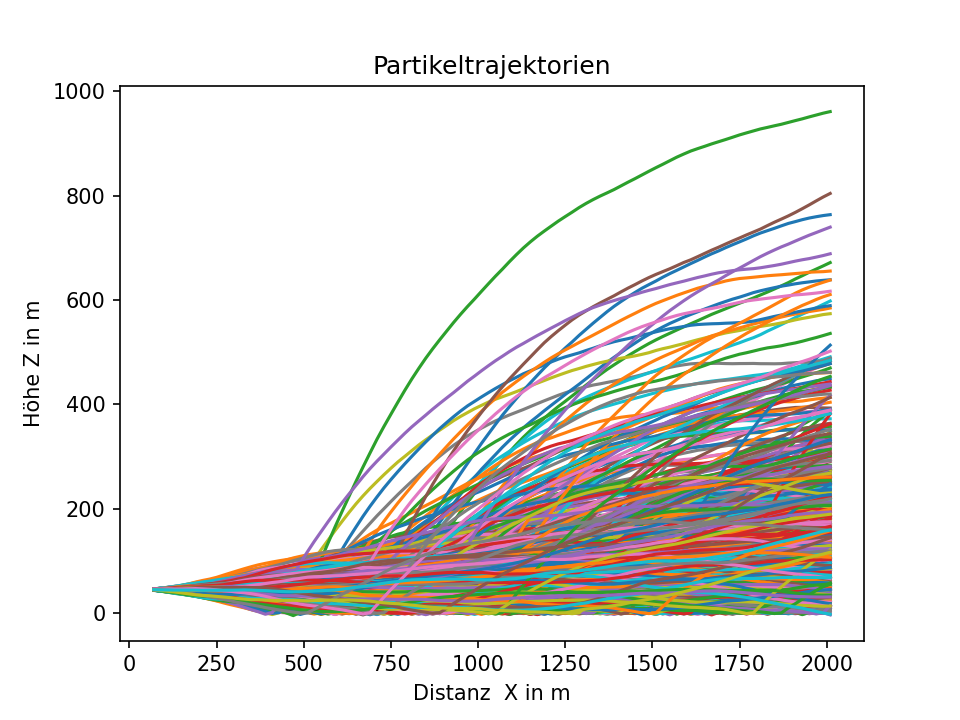
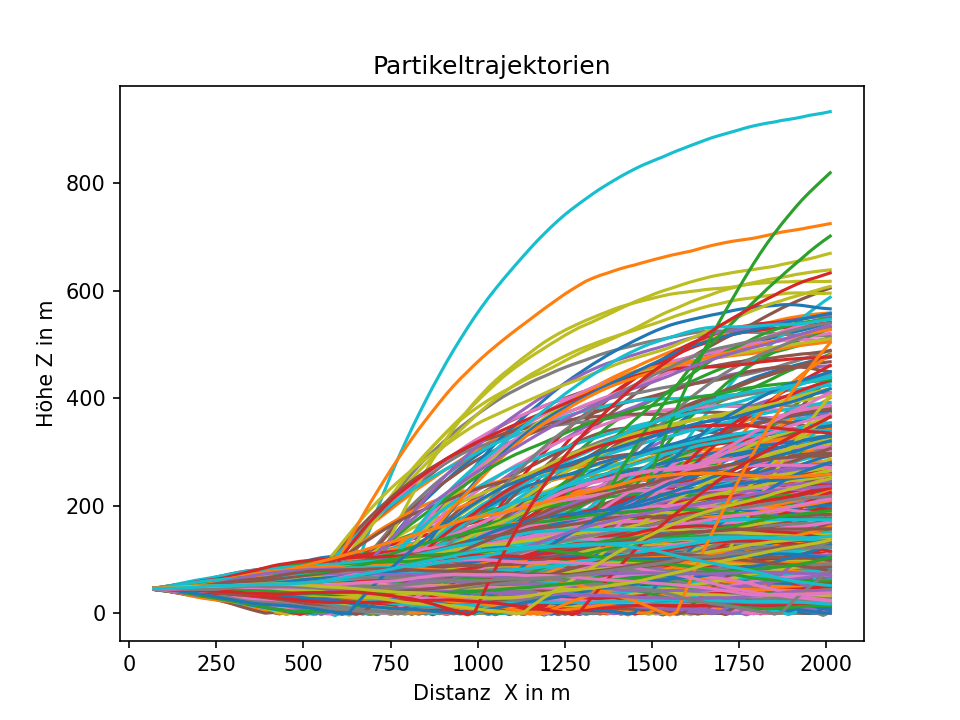
plotly

diff --git a/Übung_3/ubung3.py b/Übung_3/ubung3.py
@@ -5,13 +5,13 @@ import matplotlib.pyplot as plt
 import numpy as np
 import random
 import math
-
+import plotly.graph_objects as go
 
 n= 1000 #!Anzahl Partikel
 ubalken = np.float64(5) #!m/s
 wbalken =np.float64( 0) #!m/s
 zq =np.float64( 45) #!m
-xq =np.float64( 50) #!m
+xq =np.float64( 51) #!m
 counter=np.float64(0)
 xgrenz= np.float64(2000)# !m
 
@@ -34,7 +34,7 @@ positionsliste=[]
 xvalues=[]
 zvalues=[]
 c=np.zeros((nx, ny, nz))
-def concentration():
+def concentrationold():
     Q= 1.5e+5 #!540 kg/h also 5.4e+8mg/h und so 150000 
     ubalken= 5
     h= 100
@@ -54,6 +54,15 @@ def concentration():
            +math.exp((-((k*dz)+h)**2)/(2*dez**2)))
     return
 
+def concentration(nj):
+    dx=2
+    dz=2
+    q= 150
+    dt= 0.4
+    n= 1000
+    c= q*(nj*dt)/(n*dx*dz)
+
+    return c
 def positionen(xi,wi,zi):
     
     rr=np.float64( random.gauss(0,1))
@@ -125,9 +134,15 @@ alla=df.value_counts(["xvaluesort", "zvaluesort"])
 #print(alla["(68,70] (44,46]"])
 print(alla)
 klar=[]
+cplot=[]
+xplot=[]
+zplot=[]
 for i in range(len(alla)):
-    klar.append([alla.index.values[i][0].mid,alla.index.values[i][1].mid,alla.values[i]])
-print(klar)
+    cplot.append(concentration(alla.values[i]))
+    xplot.append(alla.index.values[i][0].mid)
+    zplot.append(alla.index.values[i][1].mid)
+    klar.append([alla.index.values[i][0].mid,alla.index.values[i][1].mid,alla.values[i],concentration(alla.values[i])])
+print(klar[0])
 print(alla.index.values[0][1].mid)
 print(alla.index.values[0][0].mid)
 for i in tqdm(range(len(ges))):#
@@ -144,3 +159,14 @@ plt.ylabel("Höhe Z in m")
 #plt.show()
 plt.savefig("Partikeltrajektorien.png", dpi=150)
 
+#z=[x for i in klar[3]]
+#z= for number in range(1, 5) :(number)
+print(cplot)
+
+fig = go.Figure(data =
+    go.Contour(
+        z=cplot,
+        x=xplot, # horizontal axis
+        y=zplot # vertical axis
+    ))
+fig.show()
